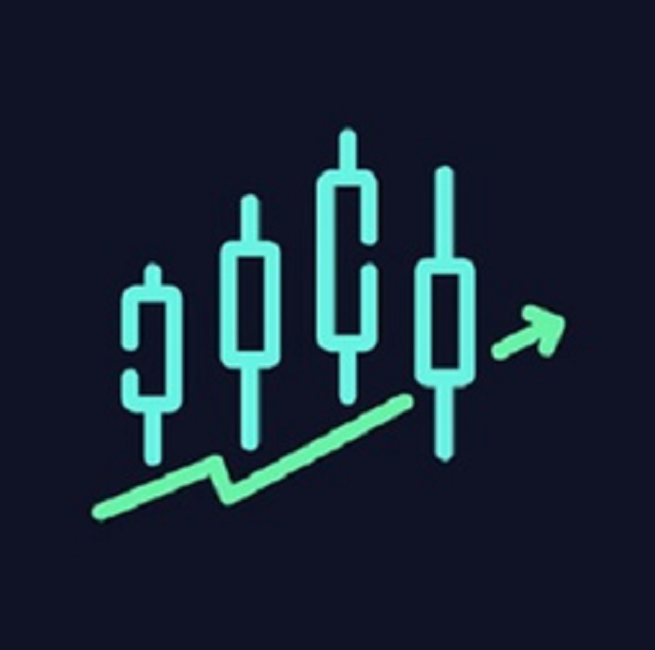
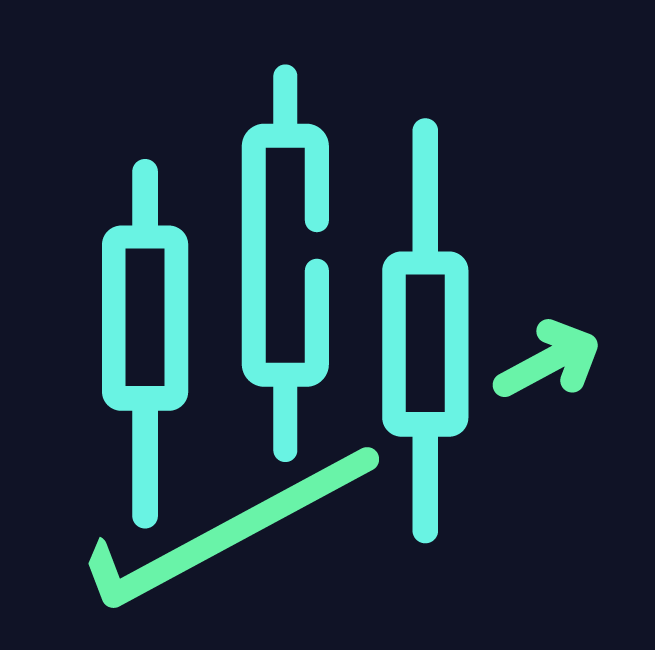
Íconde da aplicação foi alterado, refreshtime de paridades agora é de 30 minutos

Changed region(s): [[0.1221, 0.0923, 0.916, 0.9538]]

diff --git a/main.js b/main.js
@@ -10,10 +10,10 @@ let addWindow;
 var iconPath = "";
 
 if(isDevMain){
-    iconPath = path.join(__dirname, "/images/globals/icotest.jpg");
+    iconPath = path.join(__dirname, "icon.png");
 } 
 else{
-    iconPath = path.join(__dirname, "/images/globals/icotest.jpg");
+    iconPath = path.join(__dirname, "build/icon.png");
     iconPath = iconPath.replace("app.asar", "app.asar.unpacked");
 }
 

diff --git a/backend/copytrade.py b/backend/copytrade.py
@@ -223,7 +223,7 @@ def startCopy():
         try:
             now = datetime.now()
             if refreshTime < now:
-                refreshTime =  now + timedelta(hours=1)
+                refreshTime =  now + timedelta(minutes=30)
                 config.getAtivosAbertosBinarias().clear()
                 config.setAtivosAbertosBinarias(Utils.buscaAtivosAbertos(iqoption, 'B'))
                 getCommonData(config.getParidadesList(), config.getAtivosAbertosBinarias(), "B")
